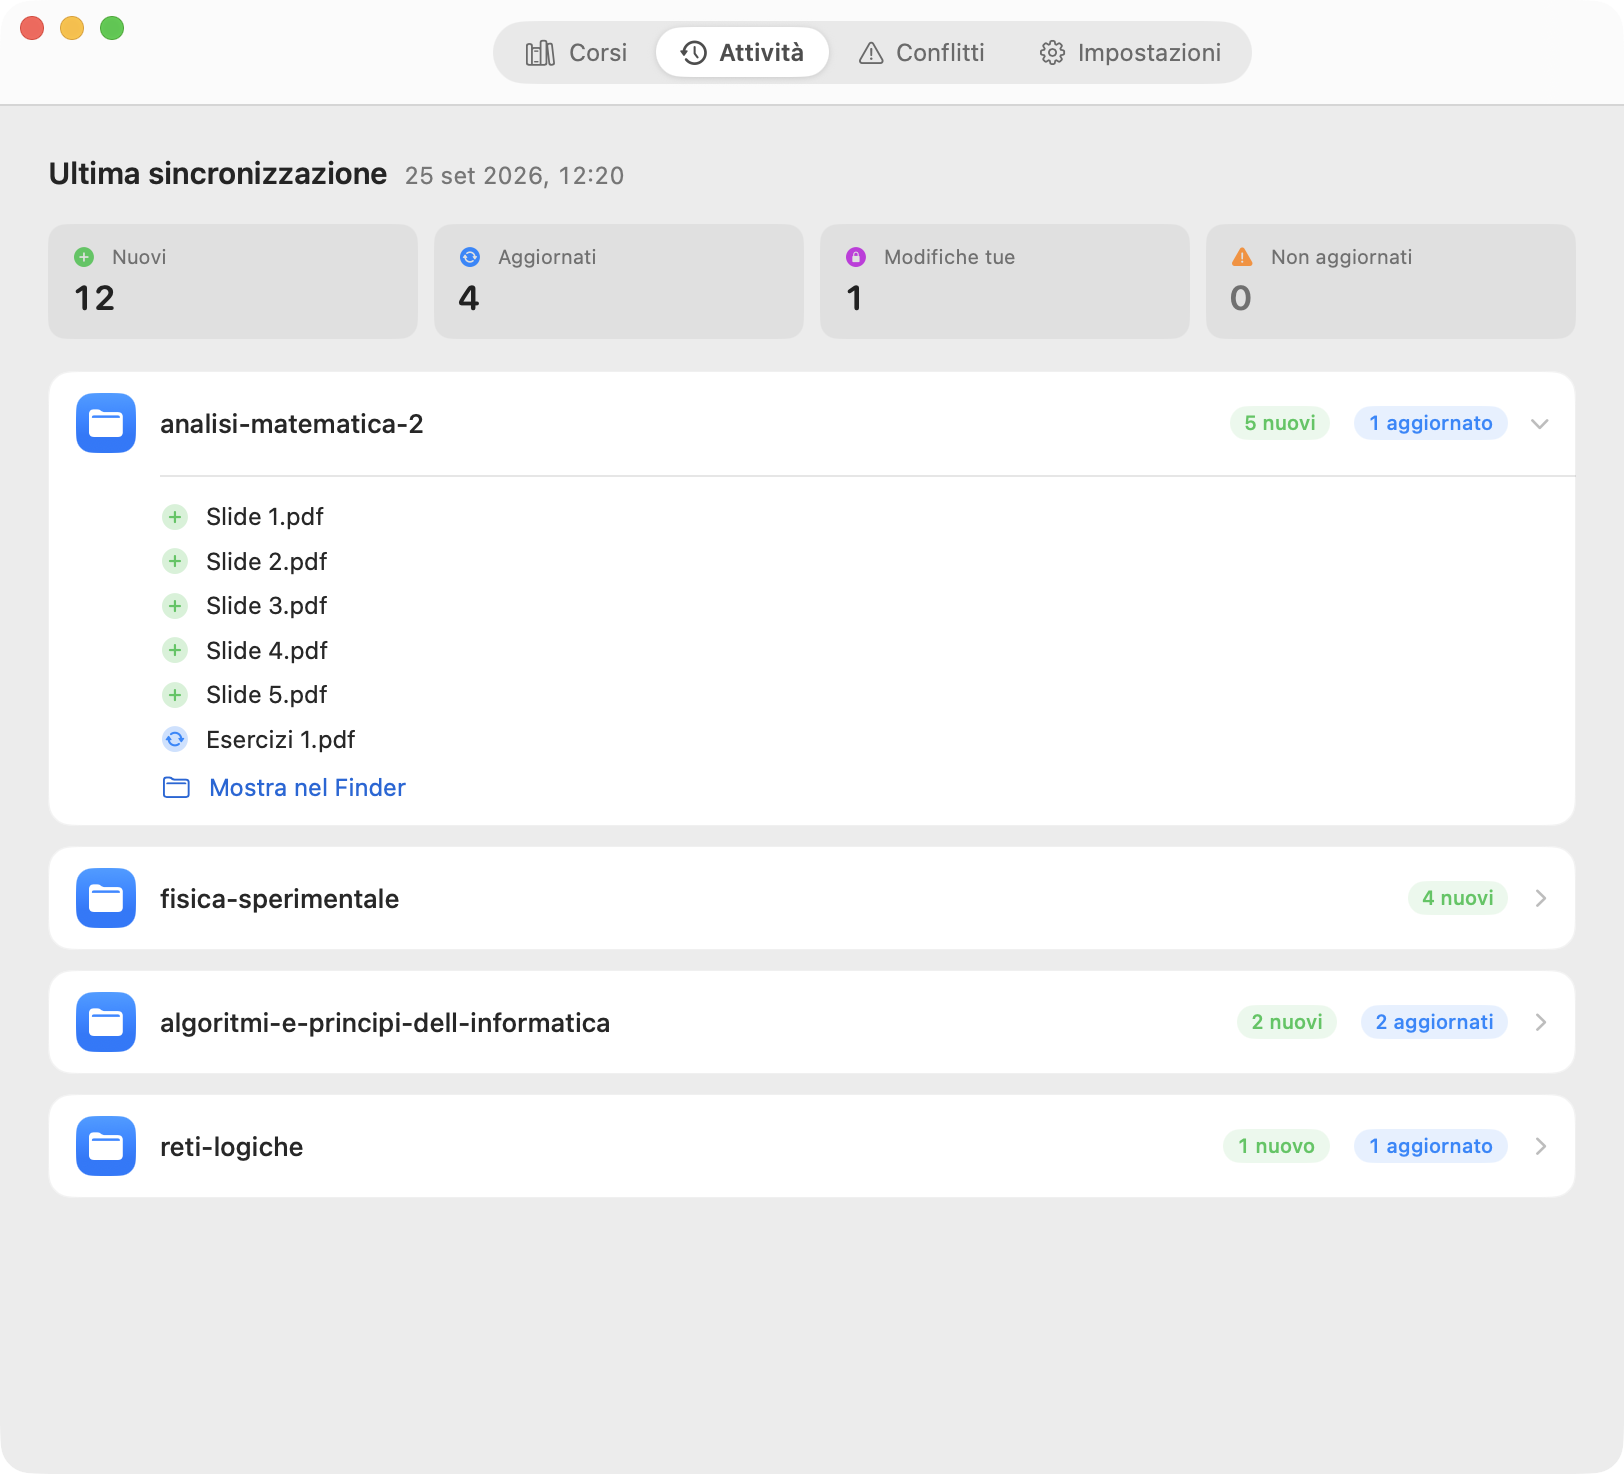
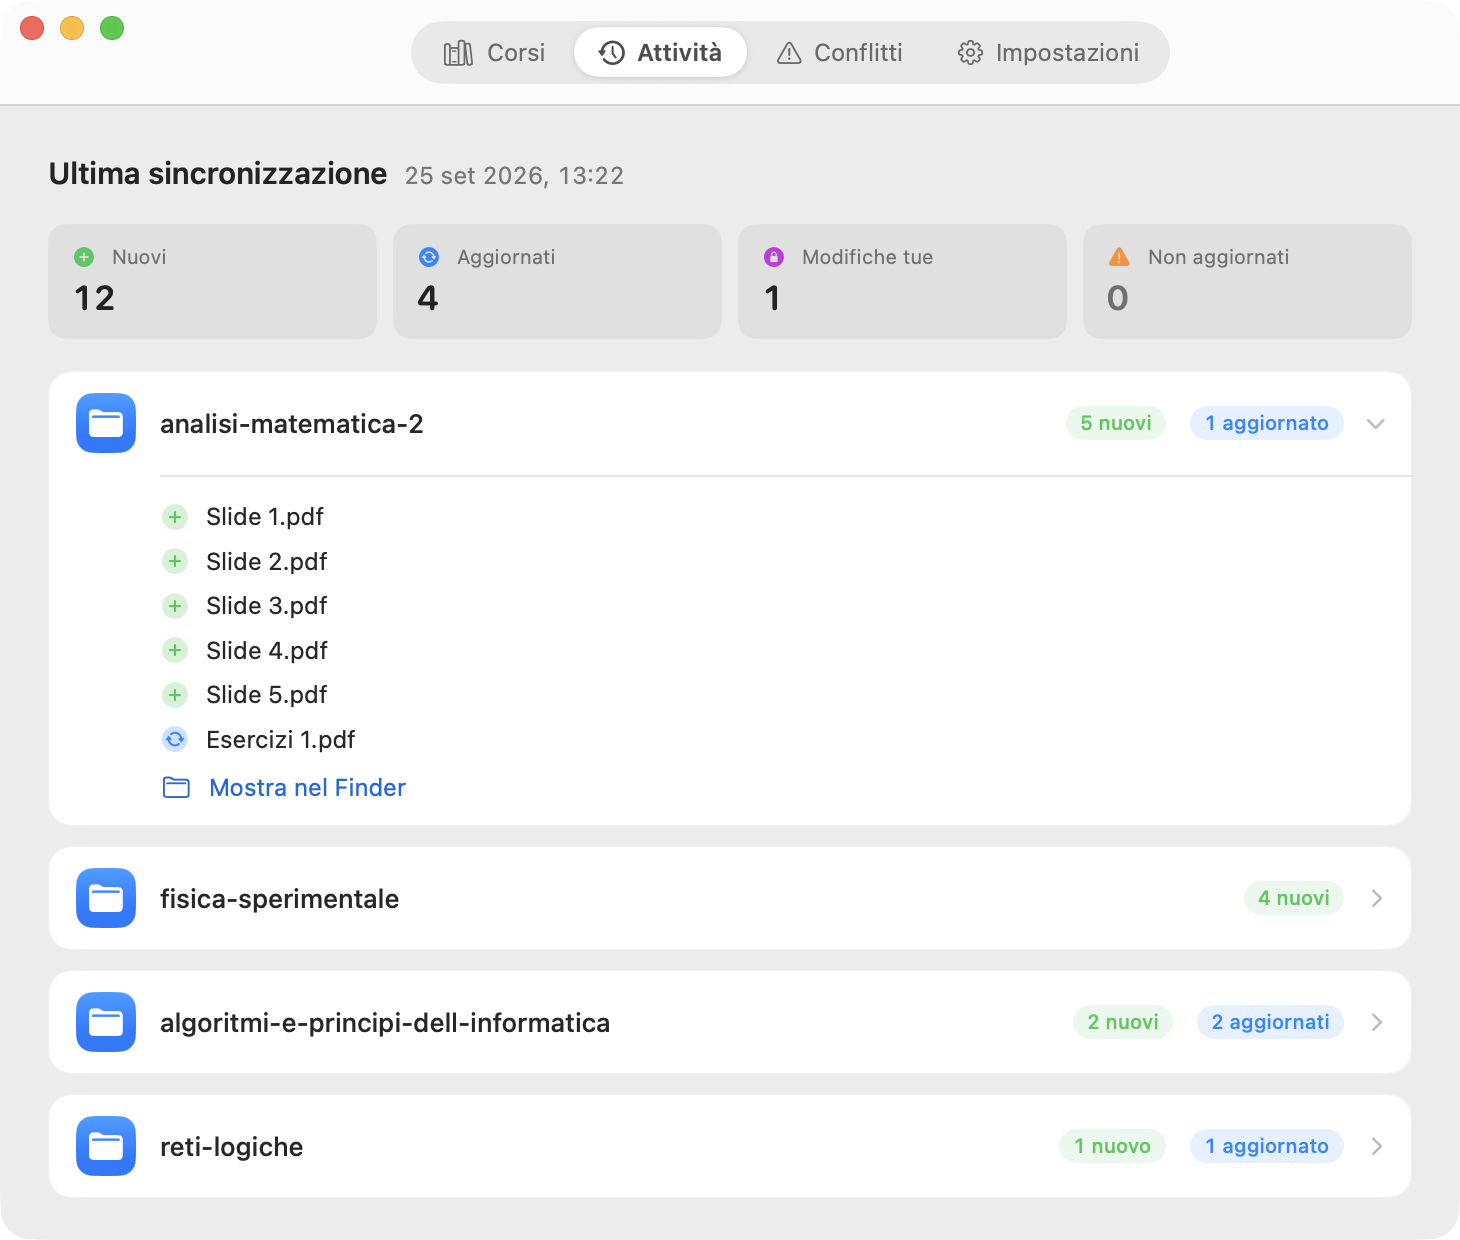
Use the sharper app screenshots in the README
Same 730pt captures as the website, shown at their real size, with
EXIF/XMP metadata stripped (pixels and colour profile unchanged).

diff --git a/README.md b/README.md
@@ -12,7 +12,7 @@ Has another syncing app ever **overwritten your annotated slides**? Tired of **r
 Beepbar solves exactly that. It never overwrites your local work: take notes directly on a slide PDF, or edit a file on iPad/Mac after downloading it, and that copy is preserved instead of being silently replaced when your university platform publishes an update. Built specifically for Apple Silicon, it stays native and ultra-lightweight in the background.
 
 <p align="center">
-  <img src="docs/images/courses.png" width="720" alt="The Beepbar window on the Corsi tab: an 'all up to date' status with 12 new and 4 updated files, and a list of twelve courses, five of them turned on, each synced into its own folder.">
+  <img src="docs/images/courses.png" width="730" alt="The Beepbar window on the Corsi tab: an 'all up to date' status with 12 new and 4 updated files, and the course list, with five of twelve courses turned on, each synced into its own folder.">
 </p>
 <p align="center"><sub>Pick the courses to sync; each one lands in its own folder. (The app's interface is in Italian.)</sub></p>
 
@@ -40,7 +40,7 @@ If you're updating from an older version that stored your token in the macOS Key
 - **Check for updates**: opt in from Impostazioni — see [Auto-updates](#auto-updates).
 
 <p align="center">
-  <img src="docs/images/activity.png" width="640" alt="The Beepbar Attività tab after a sync: 12 new, 4 updated, 1 of your edits kept, 0 not updated, with the files that arrived in each course.">
+  <img src="docs/images/activity.png" width="730" alt="The Beepbar Attività tab after a sync: 12 new, 4 updated, 1 of your edits kept, 0 not updated, with the files that arrived in each course.">
 </p>
 
 ## Why Beepbar
